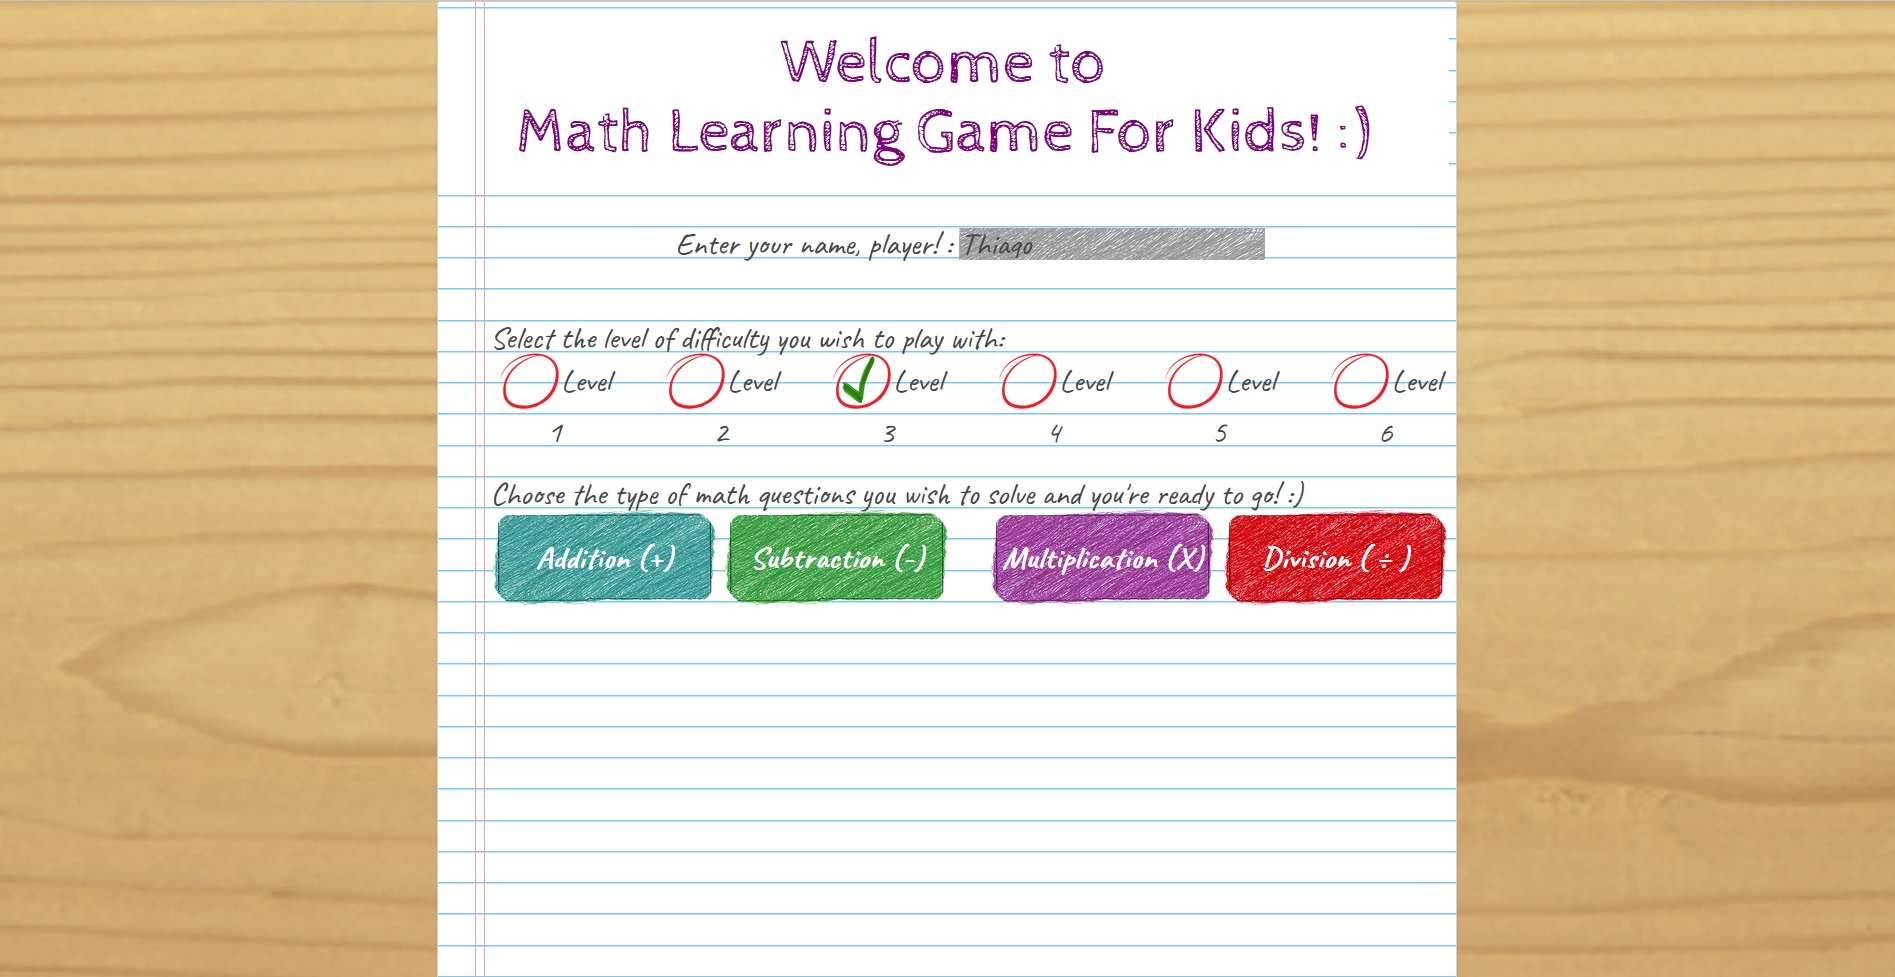
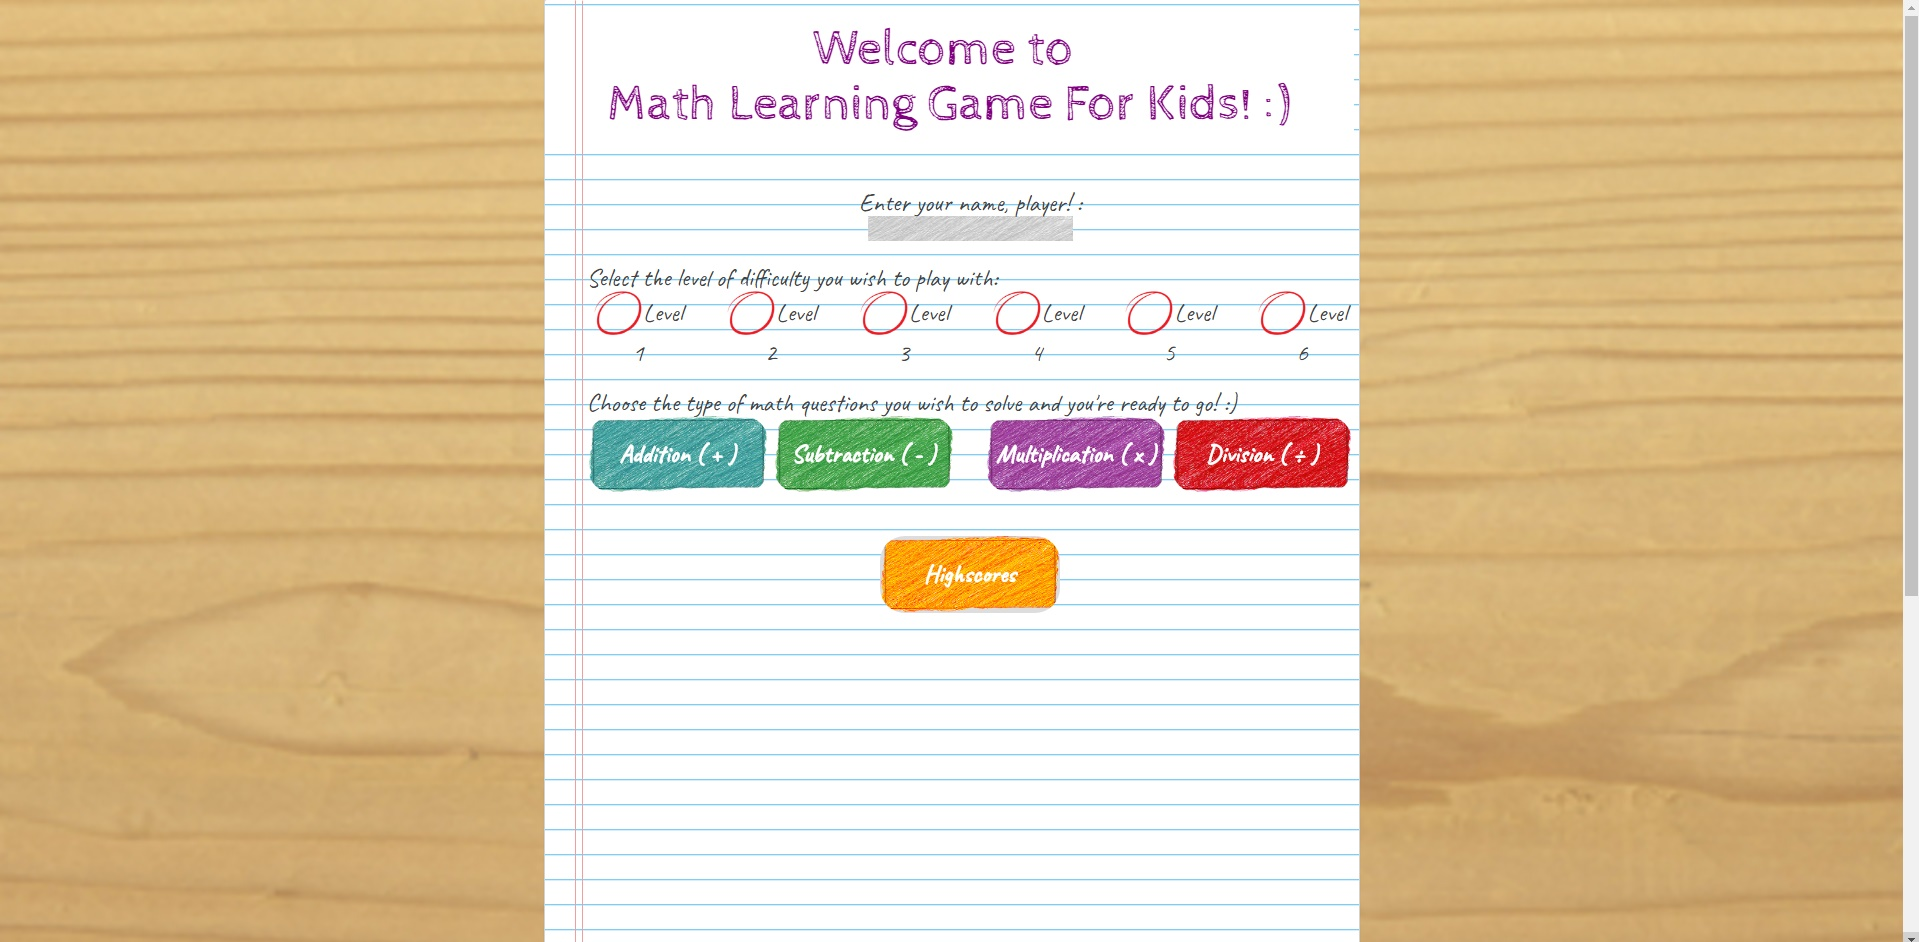
Moved function and added more screenshots
Just moved a function call to somewhere else. Also added more
screenshots of the game.

Changed region(s): [[0.1245, 0.0, 0.8095, 1.0], [0.8095, 0.0, 1.0, 1.0]]

diff --git a/Math Learning Game Web Application/js/menuValidation.js b/Math Learning Game Web Application/js/menuValidation.js
@@ -24,7 +24,6 @@ var subtractionButton = document.getElementById("subtraction-Button");
 var multiplicationButton = document.getElementById("multiplication-Button");
 var divisionButton = document.getElementById("division-Button");
 document.getElementById("highscore-Button").addEventListener("click", function() {
-	getTop10();
 	populateHighScores();
 	window.location.href = "/index.html#openModal";
 });
@@ -145,12 +144,11 @@ function compare(user1, user2){
     return 0;
 }
 function getTop10(){
-	console.log(objArray[0].score);
-	console.log(objArray[0].userName);
     objArray.sort(compare);
 }
 
 function populateHighScores() {
+	getTop10();
 	for (var i=0; i<objArray.length; i++){
 		if (i == 10) {return;}
 		var name = "user-name"+i;
